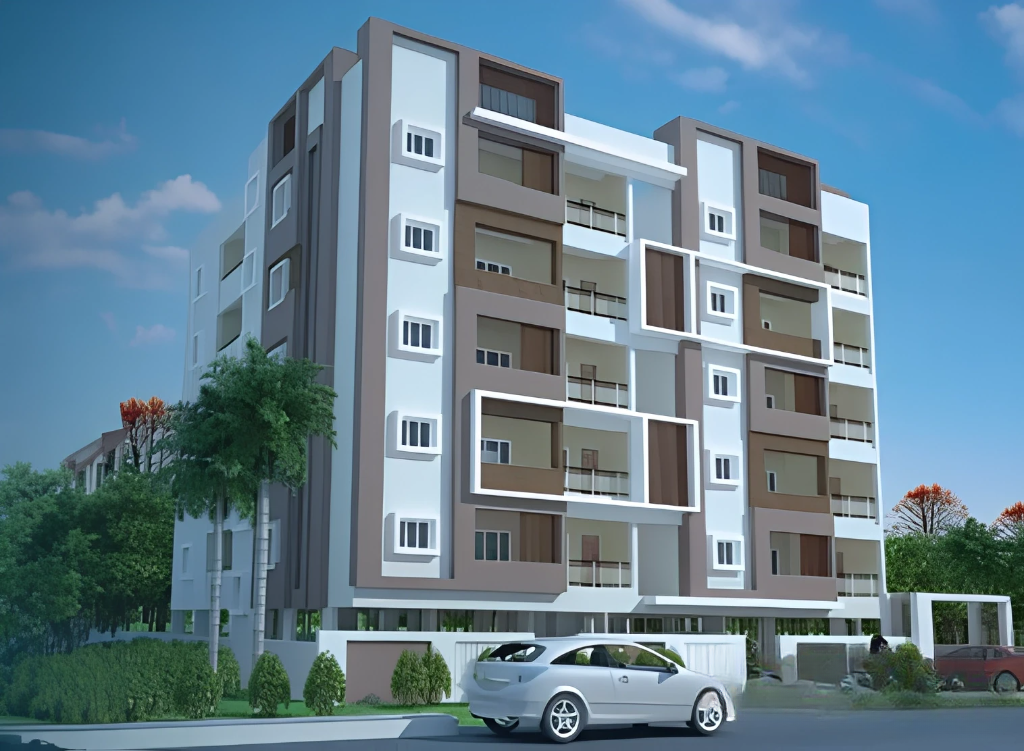
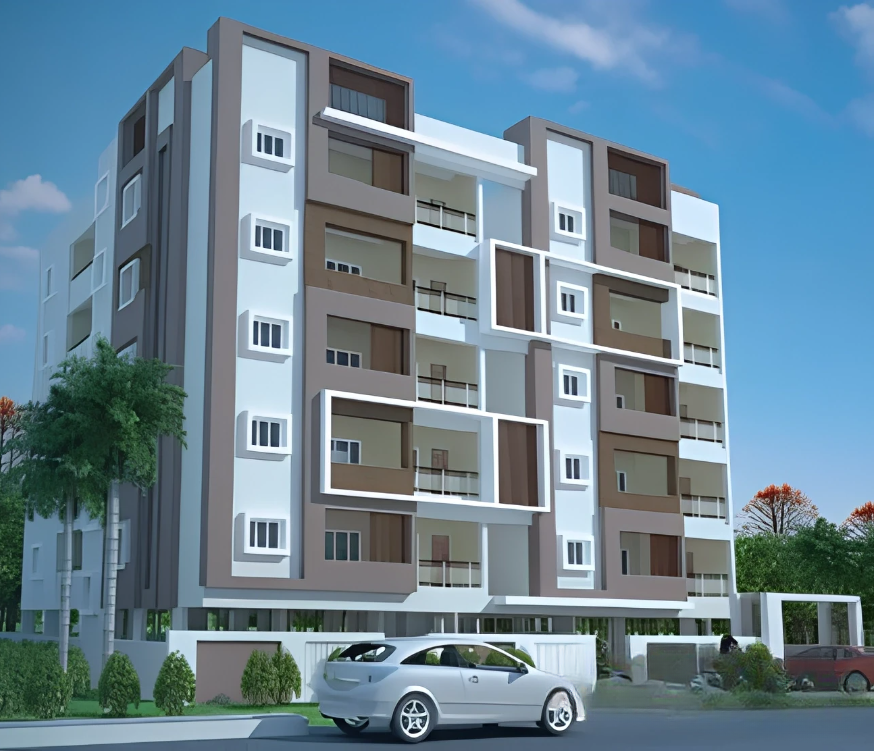
update

diff --git a/index.html b/index.html
@@ -365,44 +365,98 @@
                 <div class="featured-grid" id="featuredSlider">
                     <div class="featured-item">
                         <div class="featured-image">
-                            <img src="./Images/Completed/Sri Tirumala Pranmoksha Pride, Kapra, Hyderabad.webp" alt="Sri Tirumala Pranmoksha Pride">
+                            <img src="./Images/Completed/Tirumal Dreams.png" alt="Sri Tirumala Dreams">
                         </div>
-                        <h3 class="featured-project-name">Sri Tirumala Pranmoksha Pride, Kapra,Hyderabad</h3>
+                        <div class="featured-project-info">
+                            <h3 class="featured-project-name">Sri Tirumala Dreams</h3>
+                            <div class="featured-project-location">
+                                <svg class="location-icon" width="16" height="16" viewBox="0 0 24 24" fill="none" stroke="currentColor" stroke-width="2">
+                                    <path d="M21 10c0 7-9 13-9 13s-9-6-9-13a9 9 0 0 1 18 0z"></path>
+                                    <circle cx="12" cy="10" r="3"></circle>
+                                </svg>
+                                <span>Shivarampally, Hyderabad</span>
+                            </div>
+                        </div>
                     </div>
 
                     <div class="featured-item">
                         <div class="featured-image">
                             <img src="./Images/Completed/Tirumal Lotus.jpg" alt="Sri Tirumala Lotus">
                         </div>
-                        <h3 class="featured-project-name">Sri Tirumala Lotus, Shivarampally, Hyderabad</h3>
+                        <div class="featured-project-info">
+                            <h3 class="featured-project-name">Sri Tirumala Lotus</h3>
+                            <div class="featured-project-location">
+                                <svg class="location-icon" width="16" height="16" viewBox="0 0 24 24" fill="none" stroke="currentColor" stroke-width="2">
+                                    <path d="M21 10c0 7-9 13-9 13s-9-6-9-13a9 9 0 0 1 18 0z"></path>
+                                    <circle cx="12" cy="10" r="3"></circle>
+                                </svg>
+                                <span>Shivarampally, Hyderabad</span>
+                            </div>
+                        </div>
                     </div>
 
                     <div class="featured-item">
                         <div class="featured-image">
                             <img src="./Images/Completed/Tirumal Elite.png" alt="Sri Tirumala Elite">
                         </div>
-                        <h3 class="featured-project-name">Sri Tirumala Elite, Shivarampally, Hyderabad</h3>
+                        <div class="featured-project-info">
+                            <h3 class="featured-project-name">Sri Tirumala Elite</h3>
+                            <div class="featured-project-location">
+                                <svg class="location-icon" width="16" height="16" viewBox="0 0 24 24" fill="none" stroke="currentColor" stroke-width="2">
+                                    <path d="M21 10c0 7-9 13-9 13s-9-6-9-13a9 9 0 0 1 18 0z"></path>
+                                    <circle cx="12" cy="10" r="3"></circle>
+                                </svg>
+                                <span>Shivarampally, Hyderabad</span>
+                            </div>
+                        </div>
                     </div>
 
                     <div class="featured-item">
                         <div class="featured-image">
                             <img src="./Images/Completed/Tirumal Hamilton A&B.png" alt="Sri Tirumala Hamilton A&B">
                         </div>
-                        <h3 class="featured-project-name">Sri Tirumala Hamilton A&B, Musheerabad, Hyderabad</h3>
+                        <div class="featured-project-info">
+                            <h3 class="featured-project-name">Sri Tirumala Hamilton A&B</h3>
+                            <div class="featured-project-location">
+                                <svg class="location-icon" width="16" height="16" viewBox="0 0 24 24" fill="none" stroke="currentColor" stroke-width="2">
+                                    <path d="M21 10c0 7-9 13-9 13s-9-6-9-13a9 9 0 0 1 18 0z"></path>
+                                    <circle cx="12" cy="10" r="3"></circle>
+                                </svg>
+                                <span>Musheerabad, Hyderabad</span>
+                            </div>
+                        </div>
                     </div>
 
                     <div class="featured-item">
                         <div class="featured-image">
                             <img src="./Images/Completed/Sri Tirumala Anmol.png" alt="Sri Tirumala Anmol">
                         </div>
-                        <h3 class="featured-project-name">Sri Tirumala Anmol, Esamia Bazar, Hyderabad</h3>
+                        <div class="featured-project-info">
+                            <h3 class="featured-project-name">Sri Tirumala Anmol</h3>
+                            <div class="featured-project-location">
+                                <svg class="location-icon" width="16" height="16" viewBox="0 0 24 24" fill="none" stroke="currentColor" stroke-width="2">
+                                    <path d="M21 10c0 7-9 13-9 13s-9-6-9-13a9 9 0 0 1 18 0z"></path>
+                                    <circle cx="12" cy="10" r="3"></circle>
+                                </svg>
+                                <span>Esamia Bazar, Hyderabad</span>
+                            </div>
+                        </div>
                     </div>
 
                     <div class="featured-item">
                         <div class="featured-image">
                             <img src="./Images/Completed/Sri Tirumala Almond.png" alt="Sri Tirumala Almond">
                         </div>
-                        <h3 class="featured-project-name">Sri Tirumala Almond, Shivarampally, Hyderabad</h3>
+                        <div class="featured-project-info">
+                            <h3 class="featured-project-name">Sri Tirumala Almond</h3>
+                            <div class="featured-project-location">
+                                <svg class="location-icon" width="16" height="16" viewBox="0 0 24 24" fill="none" stroke="currentColor" stroke-width="2">
+                                    <path d="M21 10c0 7-9 13-9 13s-9-6-9-13a9 9 0 0 1 18 0z"></path>
+                                    <circle cx="12" cy="10" r="3"></circle>
+                                </svg>
+                                <span>Shivarampally, Hyderabad</span>
+                            </div>
+                        </div>
                     </div>
                 </div>
             </div>
@@ -688,7 +742,7 @@
     <!-- Instagram -->
     <a href="https://www.instagram.com/rathi.constructions/" target="_blank" aria-label="Instagram">
         <svg width="24" height="24" viewBox="0 0 24 24" fill="currentColor">
-            <path d="M7 2C4.243 2 2 4.243 2 7v10c0 2.757 2.243 5 5 5h10c2.757 0 5-2.243 5-5V7c0-2.757-2.243-5-5-5H7zm10 2c1.654 0 3 1.346 3 3v10c0 1.654-1.346 3-3 3H7c-1.654 0-3-1.346-3-3V7c0-1.654 1.346-3 3-3h10zm-5 3a5 5 0 1 0 .001 9.999A5 5 0 0 0 12 7zm0 2a3 3 0 1 1-.001 5.999A3 3 0 0 1 12 9zm4.5-3a1.5 1.5 0 1 0 .001 2.999A1.5 1.5 0 0 0 16.5 6z"/>
+            <path d="M7 2C4.243 2 2 4.243 2 7v10c0 2.757 2.243 5 5 5h10c2.757 0 5-2.243 5-5V7c0-2.757-2.243-5-5-5H7zm10 2c1.654 0 3 1.346 3 3v10c0 1.654-1.346 3-3 3H7c-1.654 0-3-1.346-3-3V7c0-1.654 1.346-3 3-3h10zm0 2a5 5 0 1 0 .001 9.999A5 5 0 0 0 12 7zm0 2a3 3 0 1 1-.001 5.999A3 3 0 0 1 12 9zm4.5-3a1.5 1.5 0 1 0 .001 2.999A1.5 1.5 0 0 0 16.5 6z"/>
         </svg>
     </a>
 

diff --git a/aboutus.html b/aboutus.html
@@ -84,7 +84,7 @@
     <section class="about-section">
         <div class="about-container">
             <div class="about-image-wrapper">
-                <img src="./Images//Homepage/aboutus.png" alt="Rathi Construction Team" class="about-image" width="600" height="400" loading="lazy">
+                <img src="./Images/Homepage/aboutus.png" alt="Rathi Construction Team" class="about-image" width="600" height="400" loading="lazy">
             </div>
             <div class="about-content">
                 <h2 class="about-title">Who Are We?</h2>
@@ -309,11 +309,13 @@
             <div class="features-grid">
                 <div class="feature-card feature-white">
                     <div class="feature-icon">
-                        <svg xmlns="http://www.w3.org/2000/svg" width="48" height="48" viewBox="0 0 24 24" fill="none" stroke="currentColor" stroke-width="2" stroke-linecap="round" stroke-linejoin="round">
-  <circle cx="12" cy="12" r="10"/>
-  <circle cx="12" cy="12" r="6"/>
+                       <svg xmlns="http://www.w3.org/2000/svg" width="48" height="48" viewBox="0 0 24 24" fill="none" stroke="currentColor" stroke-width="1.8" stroke-linecap="round" stroke-linejoin="round">
+  <circle cx="12" cy="12" r="9"/>
+  <circle cx="12" cy="12" r="5.5"/>
   <circle cx="12" cy="12" r="2"/>
+  <path d="M12 1v3M23 12h-3M12 23v-3M1 12h3"/>
 </svg>
+
                     </div>
                     <h3 class="feature-title">OUR MISSION</h3>
                     <p class="feature-description">Building trust through buildings. We uphold the highest level of integrity in all aspects of our business, ensuring credibility and trustworthiness at every step. Through unwavering commitment, we deliver reliable services that establish us as a trusted leader in the industry.</p>
@@ -321,10 +323,12 @@
 
                 <div class="feature-card feature-purple">
                     <div class="feature-icon">
-                      <svg xmlns="http://www.w3.org/2000/svg" width="48" height="48" viewBox="0 0 24 24" fill="none" stroke="currentColor" stroke-width="2" stroke-linecap="round" stroke-linejoin="round">
-  <path d="M1 12s4-8 11-8 11 8 11 8-4 8-11 8-11-8-11-8z"/>
-  <circle cx="12" cy="12" r="3"/>
+                     <svg xmlns="http://www.w3.org/2000/svg" width="48" height="48" viewBox="0 0 24 24" fill="none" stroke="currentColor" stroke-width="1.8" stroke-linecap="round" stroke-linejoin="round">
+  <path d="M2 12s3.5-7 10-7 10 7 10 7-3.5 7-10 7-10-7-10-7z"/>
+  <circle cx="12" cy="12" r="3.5"/>
+  <circle cx="12" cy="12" r="1"/>
 </svg>
+
                     </div>
                     <h3 class="feature-title">OUR VISION</h3>
                     <p class="feature-description">To establish world-class standards in real estate, setting new benchmarks for excellence, innovation, and customer satisfaction. Our commitment to quality, professionalism, and ethical conduct drives us to exceed expectations and shape the future of real estate globally.</p>
@@ -344,9 +348,11 @@
                <div class="features-grid">
                 <div class="feature-card feature-purple">
                     <div class="feature-icon">
-                        <svg xmlns="http://www.w3.org/2000/svg" width="48" height="48" viewBox="0 0 24 24" fill="none" stroke="currentColor" stroke-width="2" stroke-linecap="round" stroke-linejoin="round">
-  <polygon points="12 2 15.09 8.26 22 9.27 17 14.14 18.18 21.02 12 17.77 5.82 21.02 7 14.14 2 9.27 8.91 8.26 12 2"/>
+                     <svg xmlns="http://www.w3.org/2000/svg" width="48" height="48" viewBox="0 0 24 24" fill="none" stroke="currentColor" stroke-width="1.8" stroke-linecap="round" stroke-linejoin="round">
+  <circle cx="12" cy="8" r="5"/>
+  <path d="M8.5 13L7 22l5-2 5 2-1.5-9"/>
 </svg>
+
                     </div>
                     <h3 class="feature-title">QUALITY EXCELLENCE</h3>
                     <p class="feature-description">Quality is non-negotiable. From material selection to construction techniques, we maintain rigorous standards that ensure every home stands the test of time. Our commitment to excellence means delivering lasting value in every square foot we build.</p>
@@ -354,9 +360,11 @@
 
                 <div class="feature-card feature-white">
                     <div class="feature-icon">
-                       <svg xmlns="http://www.w3.org/2000/svg" width="48" height="48" viewBox="0 0 24 24" fill="none" stroke="currentColor" stroke-width="2" stroke-linecap="round" stroke-linejoin="round">
-  <path d="M20.84 4.61a5.5 5.5 0 0 0-7.78 0L12 5.67l-1.06-1.06a5.5 5.5 0 0 0-7.78 7.78l1.06 1.06L12 21.23l7.78-7.78 1.06-1.06a5.5 5.5 0 0 0 0-7.78z"/>
+                      <svg xmlns="http://www.w3.org/2000/svg" width="48" height="48" viewBox="0 0 24 24" fill="none" stroke="currentColor" stroke-width="1.8" stroke-linecap="round" stroke-linejoin="round">
+  <circle cx="12" cy="6" r="4"/>
+  <path d="M4 22v-2a8 8 0 0 1 16 0v2"/>
 </svg>
+
                     </div>
                     <h3 class="feature-title">CUSTOMER CENTRICITY</h3>
                     <p class="feature-description">Our customers are at the heart of everything we do. We listen to your needs, understand your aspirations, and work tirelessly to deliver homes that exceed expectations. Your satisfaction and happiness are our greatest achievements and driving force.</p>

diff --git a/css/homestyle.css b/css/homestyle.css
@@ -1317,7 +1317,7 @@
 
 .featured-image {
     width: 100%;
-    height: 450px;
+    height: 350px;
     border-radius: 16px;
     overflow: hidden;
     margin-bottom: 20px;
@@ -1336,6 +1336,12 @@
     transform: scale(1.1);
 }
 
+.featured-project-info {
+    display: flex;
+    flex-direction: column;
+    gap: 8px;
+}
+
 .featured-project-name {
     font-family: 'Inter', sans-serif;
     font-size: 18px;
@@ -1343,6 +1349,21 @@
     color: #000000;
     line-height: 1.4;
     margin: 0;
+}
+
+.featured-project-location {
+    display: flex;
+    align-items: center;
+    gap: 8px;
+    font-family: 'Inter', sans-serif;
+    font-size: 14px;
+    color: #666666;
+    line-height: 1.4;
+}
+
+.featured-project-location .location-icon {
+    flex-shrink: 0;
+    color: #6C1A78;
 }
 
 /* Featured Bottom - Progress Bar, Arrow and View Button */
@@ -1577,6 +1598,10 @@
 
     .featured-project-name {
         font-size: 16px;
+    }
+
+    .featured-project-location {
+        font-size: 12px;
     }
 }
 

diff --git a/js/projectscript.js b/js/projectscript.js
@@ -2,21 +2,21 @@ const projects = [
     {
         id: 1,
         title: "Sri Tirumala Golden Gate,Shamsheer Gunj, Near Falukunuma Palace, Hyderabad",
-        image: "./Images/golden gate/Golden Gate.jpg",
+        image: "./Images/On Going/Golden Gate.png",
         category: "upcoming",
         link: "./projects/goldengate.html"
     },
     {
         id: 2,
         title: "Sri Tirumala Pranmoksha Pride,Mallapur, Near NOMA Convention Centre, Nacharam, Hyderabad",
-        image: "./Images/Golden Pride/Golden-pride.jpg",
+        image: "./Images/On Going/Goldenpride.png",
         category: "upcoming",
         link: "./projects/goldenpride.html"
     },
     {
         id: 3,
         title: "Sri Tirumala Bliss,Raghavendra Colony, Aramghar Circle, Hyderabad",
-        image: "./Images/Bliss/Home Elevation.jpg",
+        image: "./Images/On Going/SriTirumalaBliss.png",
         category: "upcoming",
         link: "./projects/tirumalabliss.html"
     },
